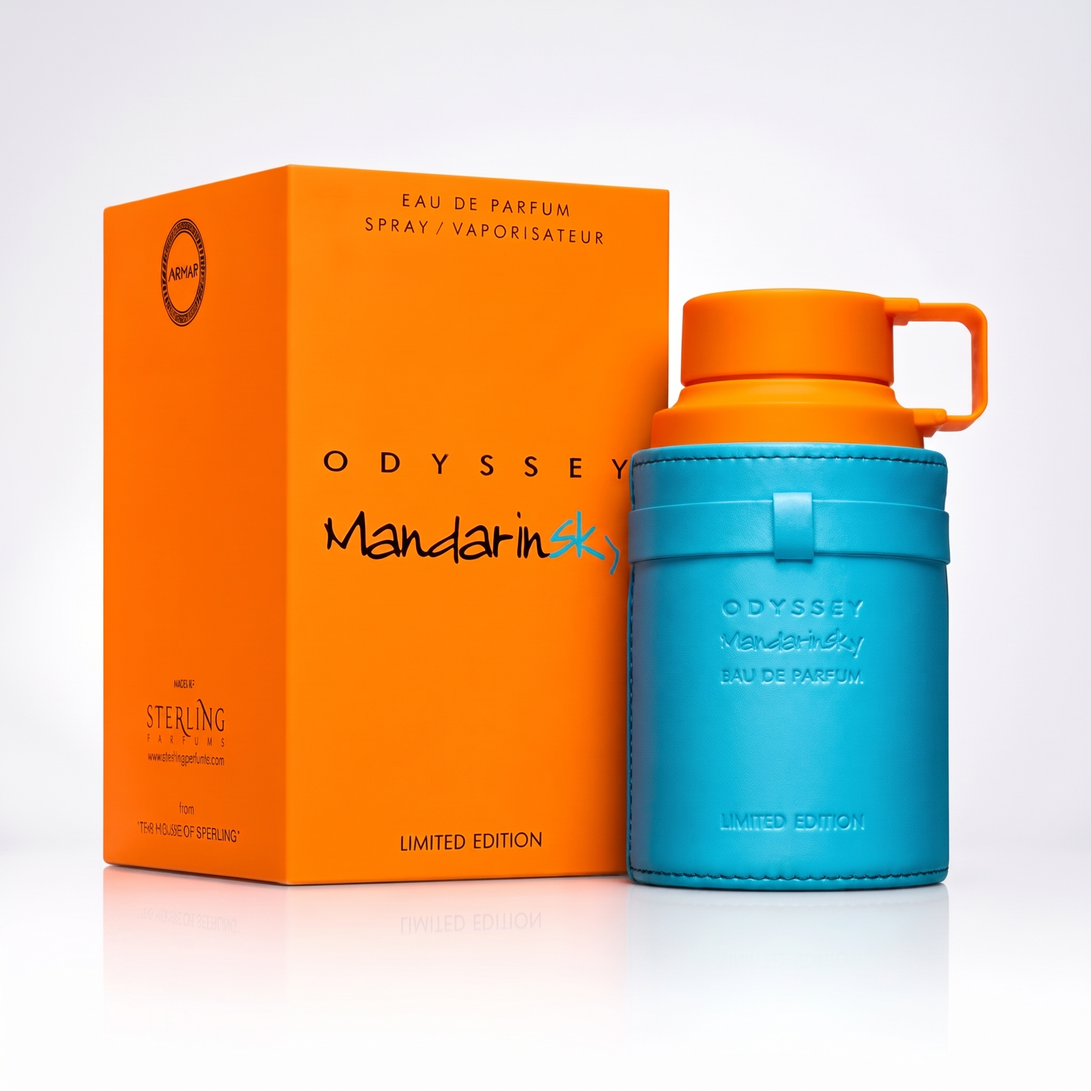
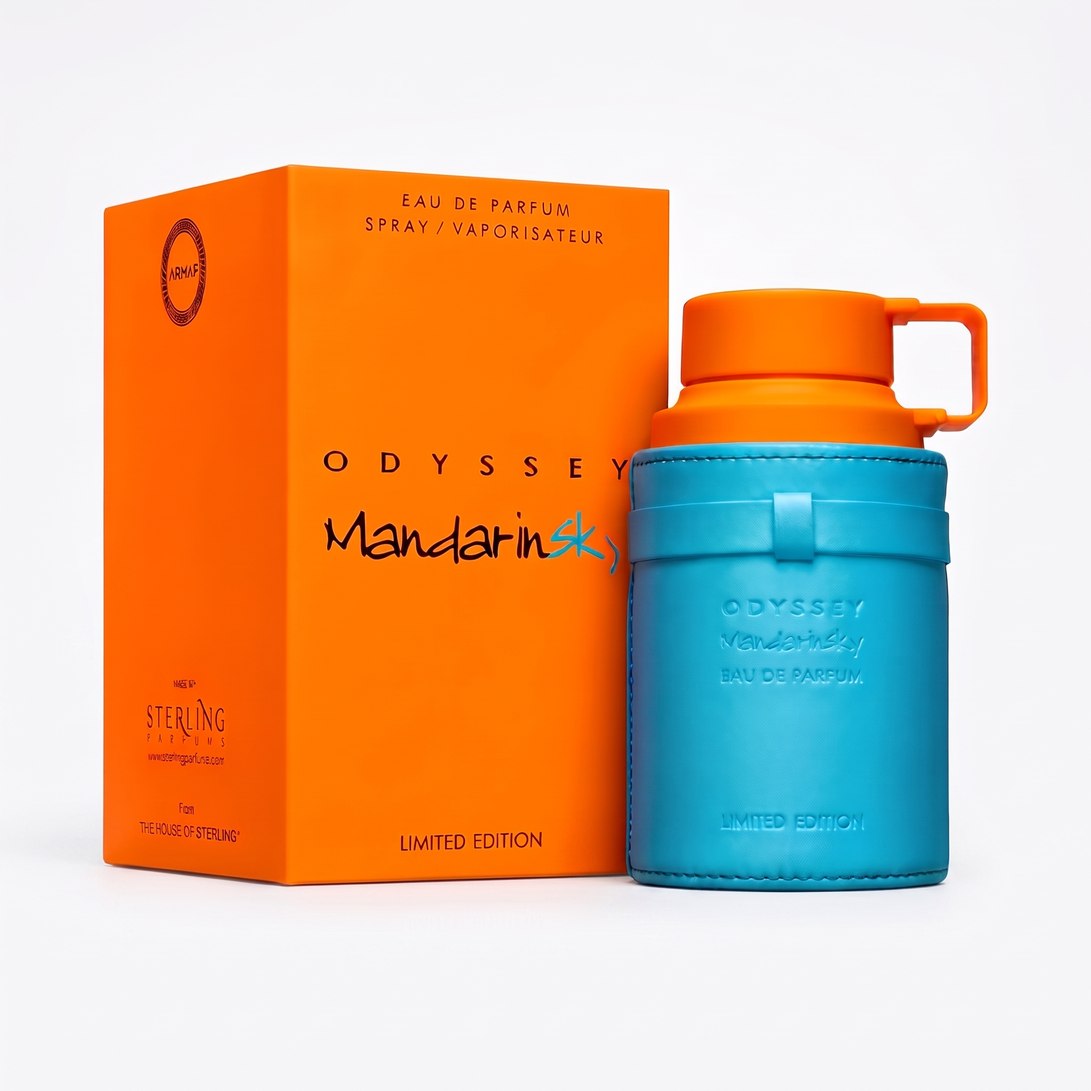
feat: actualizar imagenes optimizadas de mandarin sky, elixir, yumyum y hawas verde con fondo blanco

diff --git a/src/data/perfumes.js b/src/data/perfumes.js
@@ -3595,9 +3595,9 @@ export const PERFUMES_DATA = [
       "citricos",
       "oud_maderas"
     ],
-    "imageMain": "/assets/images/rasasi_hawas_verde.jpg",
+    "imageMain": "/assets/images/hawas verde rasari.webp",
     "gallery": [
-      "/assets/images/rasasi_hawas_verde.jpg",
+      "/assets/images/hawas verde rasari.webp",
       "/assets/images/rasasi_hawas_verde_infografia.jpg"
     ],
     "fraganticaUrl": "https://www.fragrantica.es/perfume/Rasasi/Hawas-for-Him-39449.html",

diff --git a/src/components/HeroBanner.jsx b/src/components/HeroBanner.jsx
@@ -8,7 +8,7 @@ const NEW_ARRIVALS = [
     name: 'Hawas Verde For Him',
     price: 85.00,
     notes: 'Lima, Romero, Manzana, Pachulí y Ámbar',
-    image: '/assets/images/rasasi_hawas_verde.jpg',
+    image: '/assets/images/hawas verde rasari.webp',
     categoryBadge: 'Árabe • Nuevo Lanzamiento'
   },
   {
